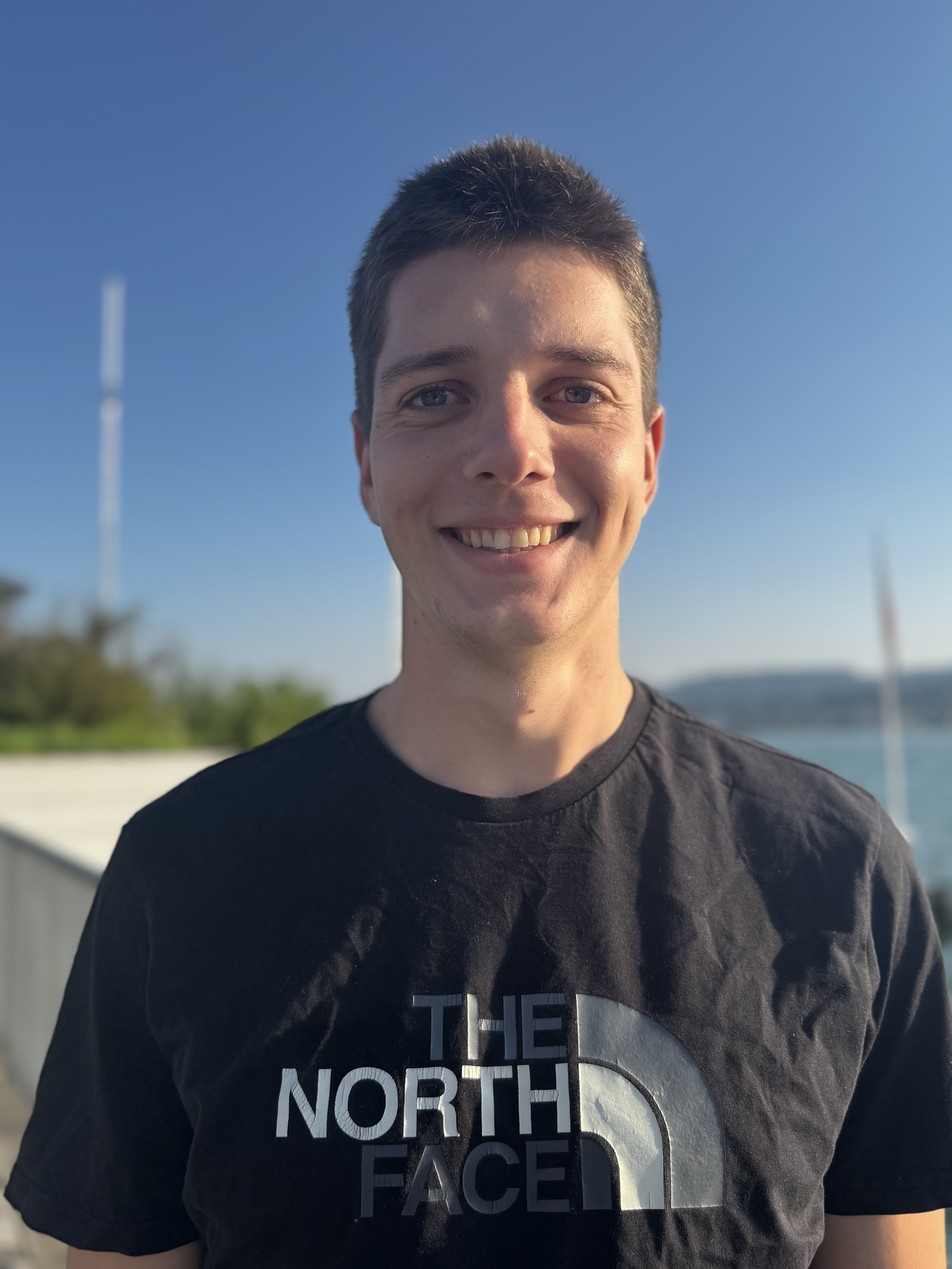
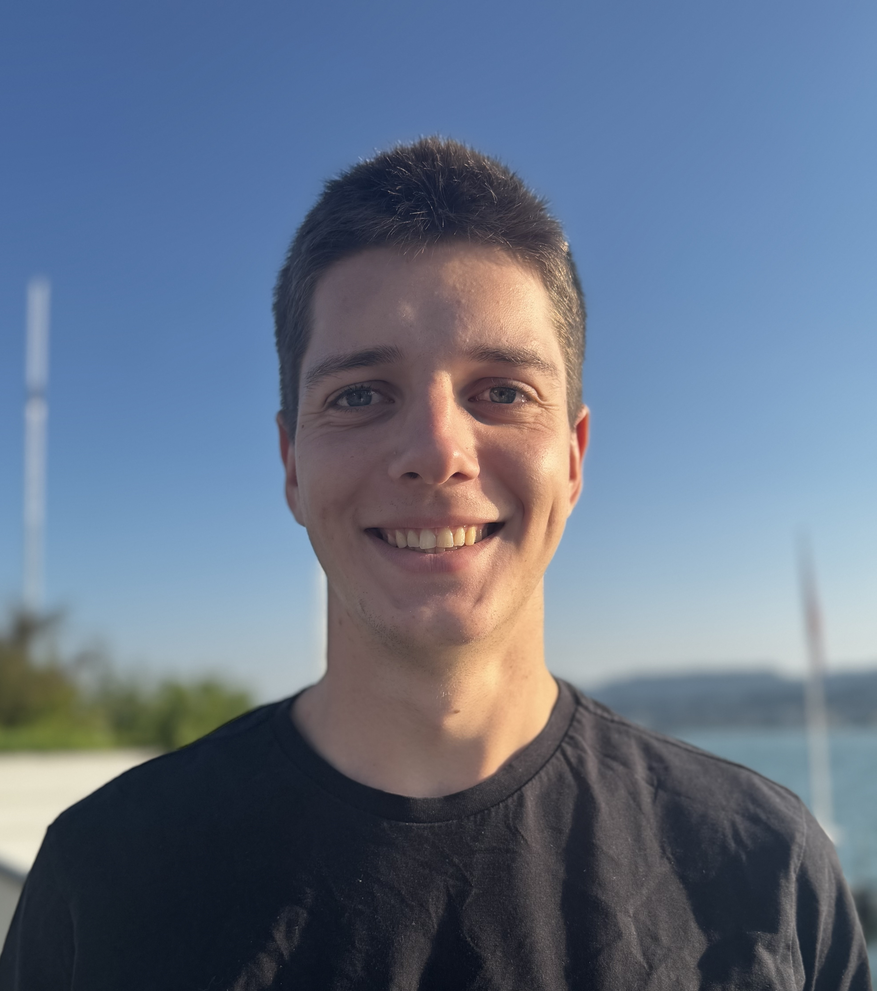
update image

diff --git a/index.html b/index.html
@@ -41,7 +41,7 @@
   <body>
     <section id="content">
       <!-- Avatar image -->
-      <img src="image.jpg" alt="Carl Barks" class="avatar" />
+      <img src="image.jpg" alt="Philipp Giersfeld" class="avatar" />
 
       <!-- Text -->
       <h1>Hi, I'm Philipp Giersfeld!</h1>

diff --git a/main.css b/main.css
@@ -27,7 +27,9 @@ a:hover {
 
 .avatar {
     border-radius: 50%;
-    width: 150px;
+    width: 200px;
+    height: 200px;
+    object-fit: cover;    /* keeps image centered and not squished */
 }
 
 .icons {
